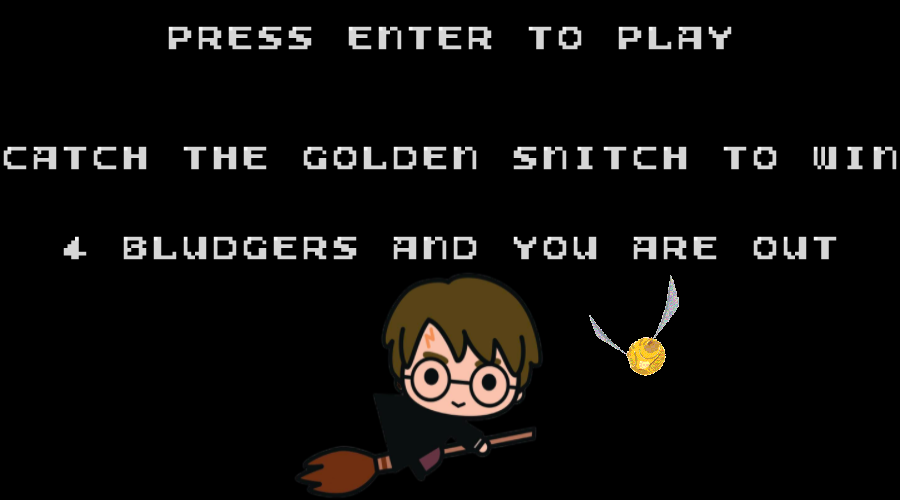
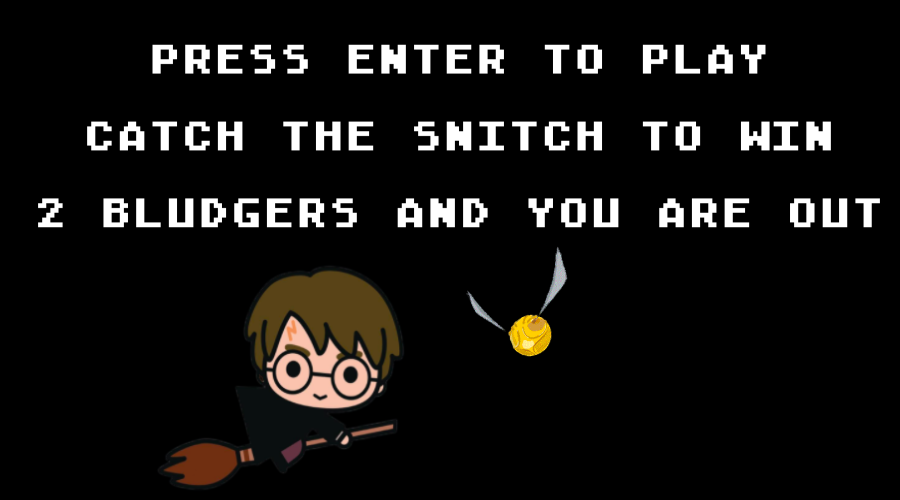
fixing life count issues

diff --git a/index.html b/index.html
@@ -1,25 +1,24 @@
 <!DOCTYPE html>
 <html lang="en">
-  <head>
-    <meta charset="UTF-8" />
-    <meta name="viewport" content="width=device-width, initial-scale=1.0" />
-    <link
-      href="https://fonts.googleapis.com/css2?family=Spartan&display=swap"
-      rel="stylesheet"
-    />
-    <link rel="stylesheet" href="styles.css" />
-    <script src="https://cdn.jsdelivr.net/npm/p5@1.0.0/lib/p5.js"></script>
 
-    <title>QUIDDITCH CUP</title>
-  </head>
-  <body>
-    <div>
+<head>
+  <meta charset="UTF-8" />
+  <meta name="viewport" content="width=device-width, initial-scale=1.0" />
+  <link href="https://fonts.googleapis.com/css2?family=Spartan&display=swap" rel="stylesheet" />
+  <link rel="stylesheet" href="styles.css" />
+  <script src="https://cdn.jsdelivr.net/npm/p5@1.0.0/lib/p5.js"></script>
+
+  <title>QUIDDITCH CUP</title>
+</head>
+
+<body>
+  <div>
     <h1> Quidditch Ironhack Cup</h1>
   </div>
 
   <!-- logic for making start-screen appear! -->
 
-<!-- <div class = "game-overlay" id="game-start"> 
+  <!-- <div class = "game-overlay" id="game-start"> 
     <img src="/assets/Levels/New Project.png" alt="start-screen">
     <div class="gif-container">
         <img src="assets/background/golden-snitch-enter.gif" alt="golden-snitcht" id='start-screen'>
@@ -34,15 +33,16 @@
     <img src="" alt="game win">
   </div>  -->
 
-    <div> 
-      <h2 id="score">LIFE COUNT: <span>4</span></h2>
-    </div>
+  <div>
+    <h2 id="score">LIFE COUNT: <span>2</span></h2>
+  </div>
 
-    <script src="./js/treasure.js"></script>
-    <script src="./js/obstacle.js"></script>
-    <script src="./js/background.js"></script>
-    <script src="./js/player.js"></script>
-    <script src="./js/game.js"></script>
-    <script src="./js/main.js"></script>
-  </body>
+  <script src="./js/treasure.js"></script>
+  <script src="./js/obstacle.js"></script>
+  <script src="./js/background.js"></script>
+  <script src="./js/player.js"></script>
+  <script src="./js/game.js"></script>
+  <script src="./js/main.js"></script>
+</body>
+
 </html>

diff --git a/js/game.js b/js/game.js
@@ -76,9 +76,9 @@ class Game {
     // }
     if (this.gameLevel === 0) {
       // game start
-
+      lifeCounter.innerText = this.player.health
       clear();
-
+      this.player.health == 2
       lifeCounter.parentNode.style.visibility = "hidden"
       image(this.startImg, 0, 0, width, height);
 
@@ -87,7 +87,8 @@ class Game {
     }
 
     if (this.gameLevel === 1) {
-
+      lifeCounter.innerText = this.player.health
+      lifeCounter.parentNode.style.visibility = "visible"
       lifeCounter.parentNode.style.visibility = "visible"
 
       clear();
@@ -95,7 +96,7 @@ class Game {
       this.background.drawBackground();
       this.player.drawPlayer();
 
-      if (frameCount % 70 === 0) {
+      if (frameCount % 50 === 0) {
         this.obstacles.push(new Obstacle(this.bludgerImg));
       }
 
@@ -127,11 +128,14 @@ class Game {
     }
 
     if (this.gameLevel == 2) {
+      lifeCounter.innerText = this.player.health
       clear()
       lifeCounter.parentNode.style.visibility = "hidden"
+      this.player.health = 2;
       image(this.gameOverImg, 0, 0, width, height);
-      console.log(this.gameLevel)
-      // frameRate(0)
+      this.player.x = 0;
+      this.player.y = height - this.player.height;
+
     }
 
     if (this.treasure.collisionSnitch(this.player)) {
@@ -144,6 +148,7 @@ class Game {
       image(this.gameWiningImg, 0, 0, width, height);
       this.player.x = 0;
       this.player.y = height - this.player.height;
+      this.player.health = 2;
     }
 
   }

diff --git a/js/treasure.js b/js/treasure.js
@@ -1,13 +1,13 @@
 class Treasure {
 
     constructor(img) {
-        this.height = 70;
-        this.width = 70;
+        this.height = 50;
+        this.width = 50;
         this.x = 400;
         this.y = height - this.height;
         this.image = img;
-        this.speed = 10
-        this.speedX = 8
+        this.speed = 15
+        this.speedX = 10
     }
 
     //define the Snitch collision function
@@ -18,7 +18,7 @@ class Treasure {
         let playerY = playerInfo.y + playerInfo.height / 2;
         //console.log(treasureX, treasureY, playerX, playerY);
 
-        if (dist(treasureX, treasureY, playerX, playerY) < 50) {
+        if (dist(treasureX, treasureY, playerX, playerY) < 80) {
     
             return true;
 
@@ -27,7 +27,6 @@ class Treasure {
 
 
     drawTreasure() {
-
         if (frameCount >= 360) {
             //console.log("help", this.image)
             image(this.image, this.x, this.y, this.width, this.height);

diff --git a/js/obstacle.js b/js/obstacle.js
@@ -19,19 +19,19 @@ class Obstacle {
     let playerY = playerInfo.y + playerInfo.height / 2;
     // console.log(obstacleX, obstacleY, playerX, playerY);
 
-    if (dist(obstacleX, obstacleY, playerX, playerY) < 50) {
+    if (dist(obstacleX, obstacleY, playerX, playerY) < 80) {
       playerInfo.receiveDamage()
       console.log('aie, I just hit a bludger')
-      
+
       lifeCounter.innerText = playerInfo.health
       console.log(lifeCounter)
-      return true; 
+      return true;
     }
   }
 
 
   drawObstacle() {
-    this.x -= 6;
+    this.x -= 10;
     // console.log("these are the obstacles");
     image(this.image, this.x, this.y, this.width, this.height);
   }

diff --git a/js/main.js b/js/main.js
@@ -26,7 +26,7 @@ function keyPressed() {
 
   if (keyCode === 37) {
     game.player.goBack();
-  
+
 
   }
 
@@ -36,18 +36,11 @@ function keyPressed() {
 
 
   if (keyCode === 13 && game.gameLevel > 1) {
-    game.player.health = 4
+    game.player.health = 2
     game.gameLevel = 1;
 
   }
 
-  // if (keyCode === 13 && game.gameLevel == 3) {
-  //   game.player.health = 4
-  //   game.gameLevel = 1;
-    
 
-  // }
-
- 
 
 }

diff --git a/js/player.js b/js/player.js
@@ -7,7 +7,7 @@ class Player {
     this.y = 150;
     this.gravity = 0.4;
     this.velocity = 0;
-    this.health = 4;
+    this.health = 2;
     this.gameOverImg;
     this.image;
   }
@@ -82,9 +82,6 @@ class Player {
 
   receiveDamage() {
     this.health -= 1;
-    console.log(this.health);
-    return this.health;
-
 
   }
 
